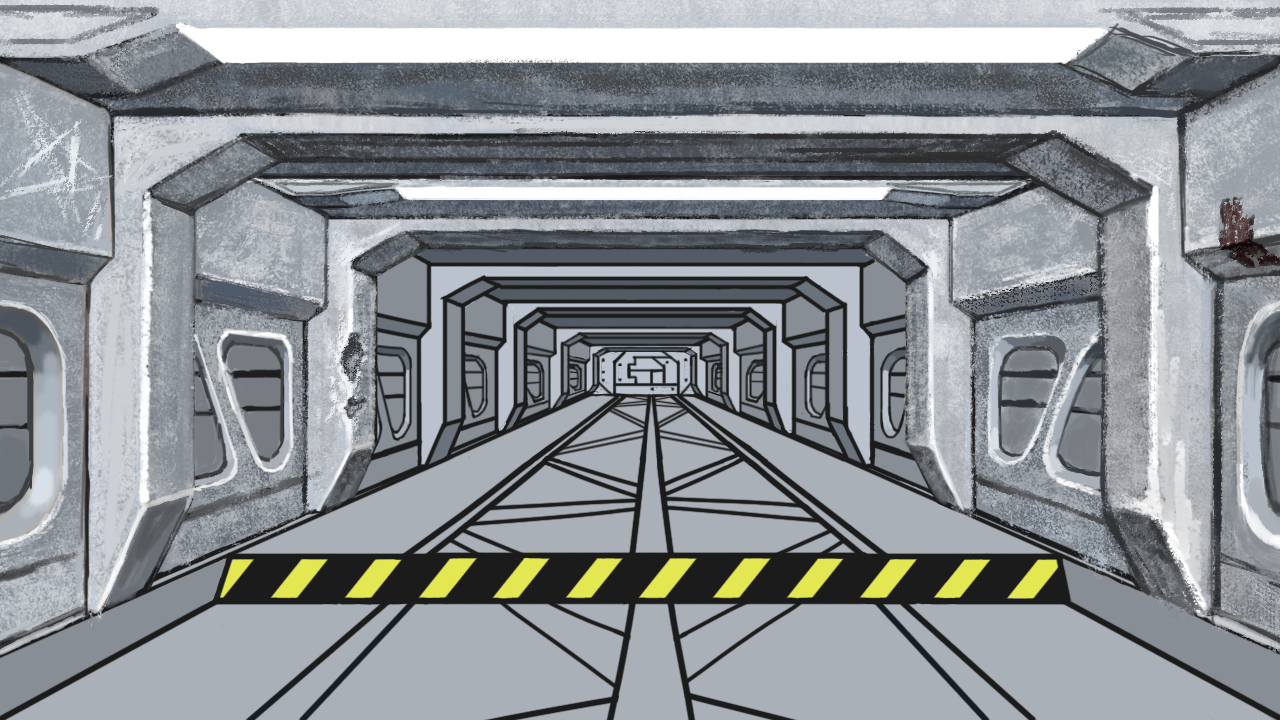
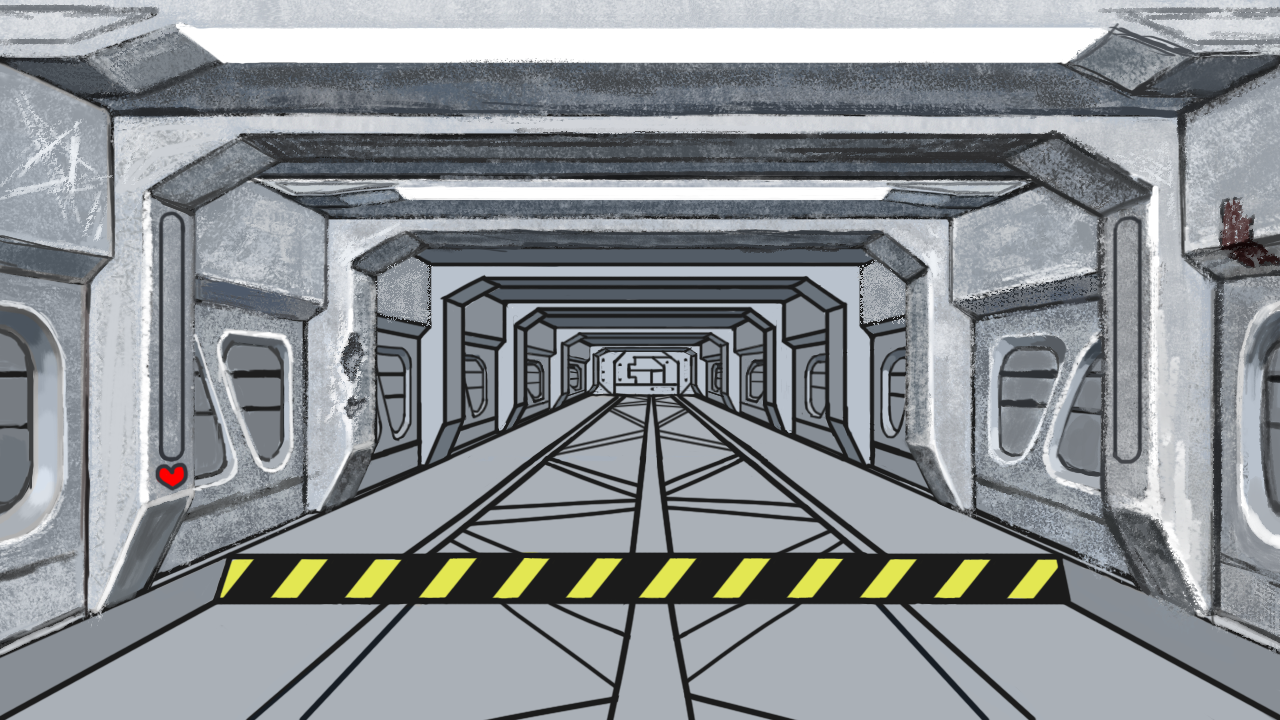
Added a progress bar class to the helpers...

diff --git a/GhostVibe/GhostVibe/Helper/ProgressBar.cs b/GhostVibe/GhostVibe/Helper/ProgressBar.cs
@@ -1,0 +1,104 @@
+using Microsoft.Xna.Framework;
+using Microsoft.Xna.Framework.Graphics;
+using System.Diagnostics;
+
+namespace Helper
+{
+    public class ProgressBar : Sprite
+    {
+        protected float progress;
+        protected bool isVertical, isUpToDown, isLeftToRight;
+
+        protected Rectangle destRect;
+
+        public ProgressBar()
+        {
+            progress = 0.0f;
+            isVertical = true;
+            isUpToDown = false;
+            isLeftToRight = false;
+
+            destRect = Rectangle.Empty;
+        }
+
+        public static ProgressBar Create(Texture2D texture, bool isVertical, Vector2 position = default(Vector2))
+        {
+            ProgressBar progressBar = new ProgressBar();
+            if (progressBar.Initialize(texture, isVertical, position))
+            {
+                return progressBar;
+            }
+            progressBar = null;
+            return null;
+        }
+
+        protected bool Initialize(Texture2D texture, bool isVertical, Vector2 position = default(Vector2))
+        {
+            if (!base.Initialize(texture, position))
+            {
+                return false;
+            }
+
+            this.isVertical = isVertical;
+            this.destRect.X = (int)position.X;
+            this.destRect.Y = (int)position.Y;
+            this.destRect.Width = texture.Width;
+            this.destRect.Height = texture.Height;
+            return true;
+        }
+
+        public override void Update(GameTime gameTime)
+        {
+            if (isVertical)
+            {
+                if (isUpToDown)
+                {
+                    sourceRect.Height = (int)(progress * texture.Height);
+                    sourceRect.Y = 0;
+                    destRect.Height = (int)(progress * texture.Height);
+                }
+                else
+                {
+                    sourceRect.Y = (int)((1.0f - progress) * texture.Height);
+                    sourceRect.Height = texture.Height;
+                    destRect.Y = (int)(position.Y + (1.0f - progress) * texture.Height);
+                }
+                sourceRect.Width = texture.Width;
+            }
+            else
+            {
+                sourceRect.Width = (int)(progress * texture.Width);
+                sourceRect.Height = texture.Height;
+            }
+        }
+
+        public override void Draw(SpriteBatch spriteBatch)
+        {
+            spriteBatch.Draw(texture, destRect, sourceRect, color * opacity, rotation, origin, spriteEffects, layerDepth);
+        }
+
+        public float Progress
+        {
+            get { return progress; }
+            set { progress = value > 1.0f ? 1.0f : (value < 0.0f ? 0.0f : value); }
+        }
+
+        public bool IsVertical
+        {
+            get { return isVertical; }
+            set { isVertical = value; }
+        }
+
+        public bool IsUpToDown
+        {
+            get { return isUpToDown; }
+            set { isUpToDown = isVertical ? value : false; }
+        }
+
+        public bool IsLeftToRight
+        {
+            get { return isLeftToRight; }
+            set { isLeftToRight = !isVertical ? value : false; }
+        }
+    }
+}

diff --git a/GhostVibe/GhostVibe/Game1.cs b/GhostVibe/GhostVibe/Game1.cs
@@ -55,6 +55,7 @@ namespace GhostVibe
         protected int score, streak, multiplier;
         protected int lifeRemaining;
         public Random random;
+        protected ProgressBar lifeBar, streakBar;
 
         // audio objects
         protected SoundEffect bgm;
@@ -78,7 +79,7 @@ namespace GhostVibe
             graphics.PreferredBackBufferWidth = 1280;
             graphics.PreferredBackBufferHeight = 720;
 
-            graphics.IsFullScreen = true;
+            //graphics.IsFullScreen = true;
             IsMouseVisible = true;
 
             Content.RootDirectory = "Content";
@@ -348,7 +349,7 @@ namespace GhostVibe
 
         protected override void Draw(GameTime gameTime)
         {
-            GraphicsDevice.Clear(Color.CornflowerBlue);
+            GraphicsDevice.Clear(Color.Transparent);
 
             spriteBatch.Begin();
 
@@ -374,14 +375,9 @@ namespace GhostVibe
             {
                 spriteBatch.DrawString(UIFont, gameoverText, new Vector2(GraphicsDevice.Viewport.Width / 2 - 200, GraphicsDevice.Viewport.Height / 2 - 30), Color.Red, 0.0f, Vector2.Zero, 5.0f, SpriteEffects.None, 0.0f);
             }
-
             else if (isPaused)
             {
                 spriteBatch.DrawString(UIFont, pausedText, new Vector2(GraphicsDevice.Viewport.Width / 2 - 125, GraphicsDevice.Viewport.Height / 2 - 30), Color.Red, 0.0f, Vector2.Zero, 5.0f, SpriteEffects.None, 0.0f);
-            }
-            else
-            {
-                ;
             }
 
             spriteBatch.End();

diff --git a/GhostVibe/GhostVibe/Helper/Sprite.cs b/GhostVibe/GhostVibe/Helper/Sprite.cs
@@ -1,6 +1,5 @@
 using Microsoft.Xna.Framework;
 using Microsoft.Xna.Framework.Graphics;
-using System;
 using System.Collections.Generic;
 using System.Diagnostics;
 
@@ -137,7 +136,7 @@ namespace Helper
             return true;
         }
 
-        public void Update(GameTime gameTime)
+        public virtual void Update(GameTime gameTime)
         {
             // don't update if inactive
             if (isAnimation == false || active == false)
@@ -172,7 +171,7 @@ namespace Helper
             sourceRect.X = currentFrame * frameWidth;
         }
 
-        public void Draw(SpriteBatch spriteBatch)
+        public virtual void Draw(SpriteBatch spriteBatch)
         {
             // check if this sprite is an animation
             if (isAnimation)
